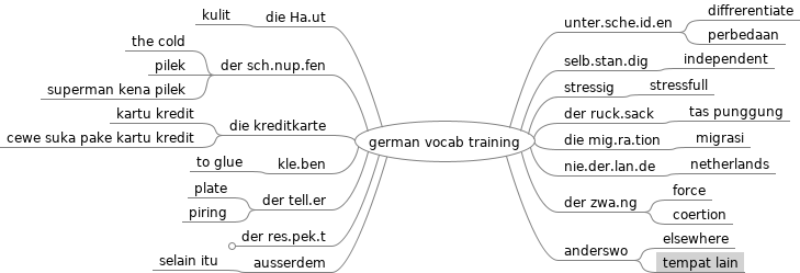
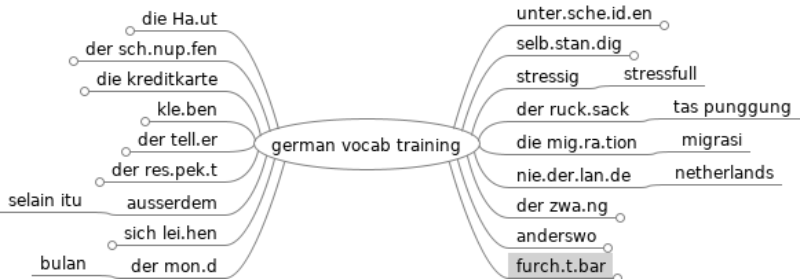
update lecture notes

Changed region(s): [[0.0, 0.0, 1.0, 1.0], [0.4375, 0.3223, 0.4688, 0.381]]

diff --git a/german vocab training.mm b/german vocab training.mm
@@ -1,17 +1,17 @@
 <map version="1.1.0">
 <!-- To view this file, download free mind mapping software FreeMind from http://freemind.sourceforge.net -->
 <node CREATED="1645776795386" ID="ID_612289722" MODIFIED="1645776804707" TEXT="german vocab training">
-<node CREATED="1645776804959" ID="ID_137395613" MODIFIED="1645776812469" POSITION="right" TEXT="unter.sche.id.en">
+<node CREATED="1645776804959" FOLDED="true" ID="ID_137395613" MODIFIED="1646268629567" POSITION="right" TEXT="unter.sche.id.en">
 <node CREATED="1645776812792" ID="ID_1869791915" MODIFIED="1645776817791" TEXT="diffrerentiate"/>
 <node CREATED="1645776818924" ID="ID_1592668855" MODIFIED="1645776821584" TEXT="perbedaan"/>
 </node>
-<node CREATED="1645876730984" ID="ID_1780613486" MODIFIED="1645876736021" POSITION="left" TEXT="die Ha.ut">
+<node CREATED="1645876730984" FOLDED="true" ID="ID_1780613486" MODIFIED="1646268627915" POSITION="left" TEXT="die Ha.ut">
 <node CREATED="1645876736364" ID="ID_1264013700" MODIFIED="1645876737957" TEXT="kulit"/>
 </node>
-<node CREATED="1645876755213" ID="ID_1302470738" MODIFIED="1645876761757" POSITION="right" TEXT="selb.stan.dig">
+<node CREATED="1645876755213" FOLDED="true" ID="ID_1302470738" MODIFIED="1646268633563" POSITION="right" TEXT="selb.stan.dig">
 <node CREATED="1645876761978" ID="ID_1959129591" MODIFIED="1645876765719" TEXT="independent"/>
 </node>
-<node CREATED="1645876786211" ID="ID_1828618314" MODIFIED="1645876794004" POSITION="left" TEXT="der sch.nup.fen">
+<node CREATED="1645876786211" FOLDED="true" ID="ID_1828618314" MODIFIED="1646268626453" POSITION="left" TEXT="der sch.nup.fen">
 <node CREATED="1645876794332" ID="ID_1134399467" MODIFIED="1645876796711" TEXT="the cold"/>
 <node CREATED="1645876796935" ID="ID_178536170" MODIFIED="1645876801311" TEXT="pilek"/>
 <node CREATED="1645876843357" ID="ID_510512633" MODIFIED="1645876848066" TEXT="superman kena pilek"/>
@@ -19,14 +19,14 @@
 <node CREATED="1645926458228" ID="ID_1124219823" MODIFIED="1645926460788" POSITION="right" TEXT="stressig">
 <node CREATED="1645926461168" ID="ID_2753267" MODIFIED="1645926463978" TEXT="stressfull"/>
 </node>
-<node CREATED="1645926489949" ID="ID_921815018" MODIFIED="1645926494398" POSITION="left" TEXT="die kreditkarte">
+<node CREATED="1645926489949" FOLDED="true" ID="ID_921815018" MODIFIED="1646268625199" POSITION="left" TEXT="die kreditkarte">
 <node CREATED="1645926498552" ID="ID_1165176683" MODIFIED="1645926501461" TEXT="kartu kredit"/>
 <node CREATED="1645926501717" ID="ID_1774524028" MODIFIED="1645926509448" TEXT="cewe suka pake kartu kredit"/>
 </node>
 <node CREATED="1646020808264" ID="ID_135170131" MODIFIED="1646020812997" POSITION="right" TEXT="der ruck.sack">
 <node CREATED="1646020813273" ID="ID_1871648382" MODIFIED="1646020821586" TEXT="tas punggung"/>
 </node>
-<node CREATED="1646020834869" ID="ID_580742527" MODIFIED="1646020838045" POSITION="left" TEXT="kle.ben">
+<node CREATED="1646020834869" FOLDED="true" ID="ID_580742527" MODIFIED="1646268623751" POSITION="left" TEXT="kle.ben">
 <node CREATED="1646020838340" ID="ID_663405053" MODIFIED="1646020840215" TEXT="to glue"/>
 </node>
 <node CREATED="1646106102094" ID="ID_1587908693" MODIFIED="1646106109135" POSITION="right" TEXT="die mig.ra.tion">
@@ -35,23 +35,35 @@
 <node CREATED="1646106131005" ID="ID_1045845669" MODIFIED="1646106137886" POSITION="right" TEXT="nie.der.lan.de">
 <node CREATED="1646106138141" ID="ID_1246184695" MODIFIED="1646106140627" TEXT="netherlands"/>
 </node>
-<node CREATED="1646106155722" ID="ID_1546662507" MODIFIED="1646106159671" POSITION="left" TEXT="der tell.er">
+<node CREATED="1646106155722" FOLDED="true" ID="ID_1546662507" MODIFIED="1646268622509" POSITION="left" TEXT="der tell.er">
 <node CREATED="1646106159927" ID="ID_1755083186" MODIFIED="1646106161483" TEXT="plate"/>
 <node CREATED="1646106162793" ID="ID_604752954" MODIFIED="1646106164679" TEXT="piring"/>
 </node>
 <node CREATED="1646106183217" FOLDED="true" ID="ID_1507981639" MODIFIED="1646106312440" POSITION="left" TEXT="der res.pek.t">
 <node CREATED="1646106190469" ID="ID_919429932" MODIFIED="1646106192385" TEXT="respect"/>
 </node>
-<node CREATED="1646106313955" ID="ID_1768411395" MODIFIED="1646106319667" POSITION="right" TEXT="der zwa.ng">
+<node CREATED="1646106313955" FOLDED="true" ID="ID_1768411395" MODIFIED="1646268643632" POSITION="right" TEXT="der zwa.ng">
 <node CREATED="1646106319868" ID="ID_913765614" MODIFIED="1646106322324" TEXT="force"/>
 <node CREATED="1646106322566" ID="ID_1745993976" MODIFIED="1646106325401" TEXT="coertion"/>
+<node CREATED="1646268639720" ID="ID_94720993" MODIFIED="1646268642507" TEXT="paksaan"/>
 </node>
 <node CREATED="1646106344966" ID="ID_787555153" MODIFIED="1646106349463" POSITION="left" TEXT="ausserdem">
 <node CREATED="1646106349725" ID="ID_1411354824" MODIFIED="1646106352038" TEXT="selain itu"/>
 </node>
-<node CREATED="1646106369308" ID="ID_228529930" MODIFIED="1646106372355" POSITION="right" TEXT="anderswo">
+<node CREATED="1646106369308" FOLDED="true" ID="ID_228529930" MODIFIED="1646268645053" POSITION="right" TEXT="anderswo">
 <node CREATED="1646106372613" ID="ID_1795501701" MODIFIED="1646106383521" TEXT="elsewhere"/>
 <node CREATED="1646106383816" ID="ID_1778901467" MODIFIED="1646106389180" TEXT="tempat lain"/>
+</node>
+<node CREATED="1646268607354" FOLDED="true" ID="ID_1262176040" MODIFIED="1646268647769" POSITION="left" TEXT="sich lei.hen">
+<node CREATED="1646268611969" ID="ID_469086407" MODIFIED="1646268617144" TEXT="borrow"/>
+<node CREATED="1646268617437" ID="ID_821396191" MODIFIED="1646268619395" TEXT="pinjem"/>
+</node>
+<node CREATED="1646268664614" FOLDED="true" ID="ID_1616296716" MODIFIED="1646268766716" POSITION="right" TEXT="furch.t.bar">
+<node CREATED="1646268669122" ID="ID_177261864" MODIFIED="1646268670651" TEXT="kacau"/>
+<node CREATED="1646268671066" ID="ID_1274425853" MODIFIED="1646268673593" TEXT="terible"/>
+</node>
+<node CREATED="1646268692567" ID="ID_737756320" MODIFIED="1646268696272" POSITION="left" TEXT="der mon.d">
+<node CREATED="1646268696536" ID="ID_1102132458" MODIFIED="1646268698137" TEXT="bulan"/>
 </node>
 </node>
 </map>
